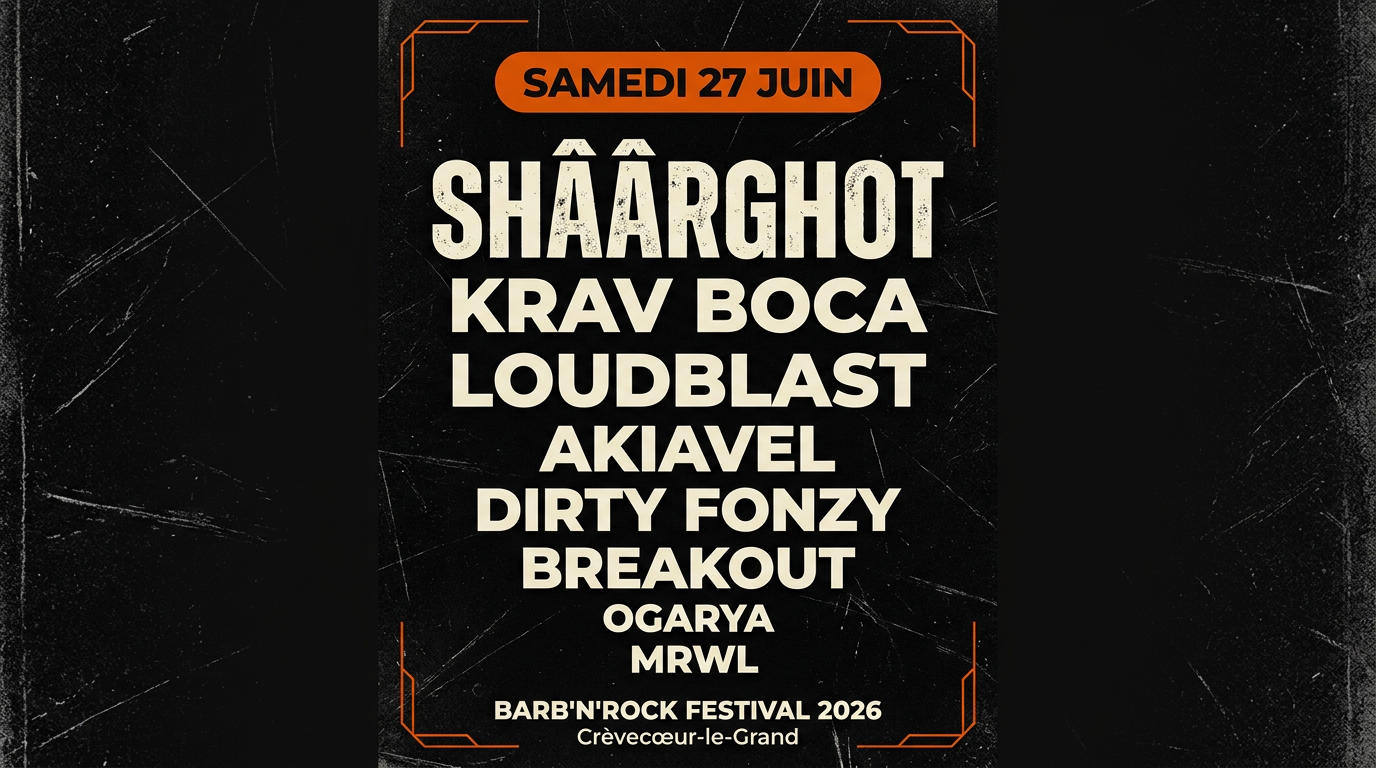
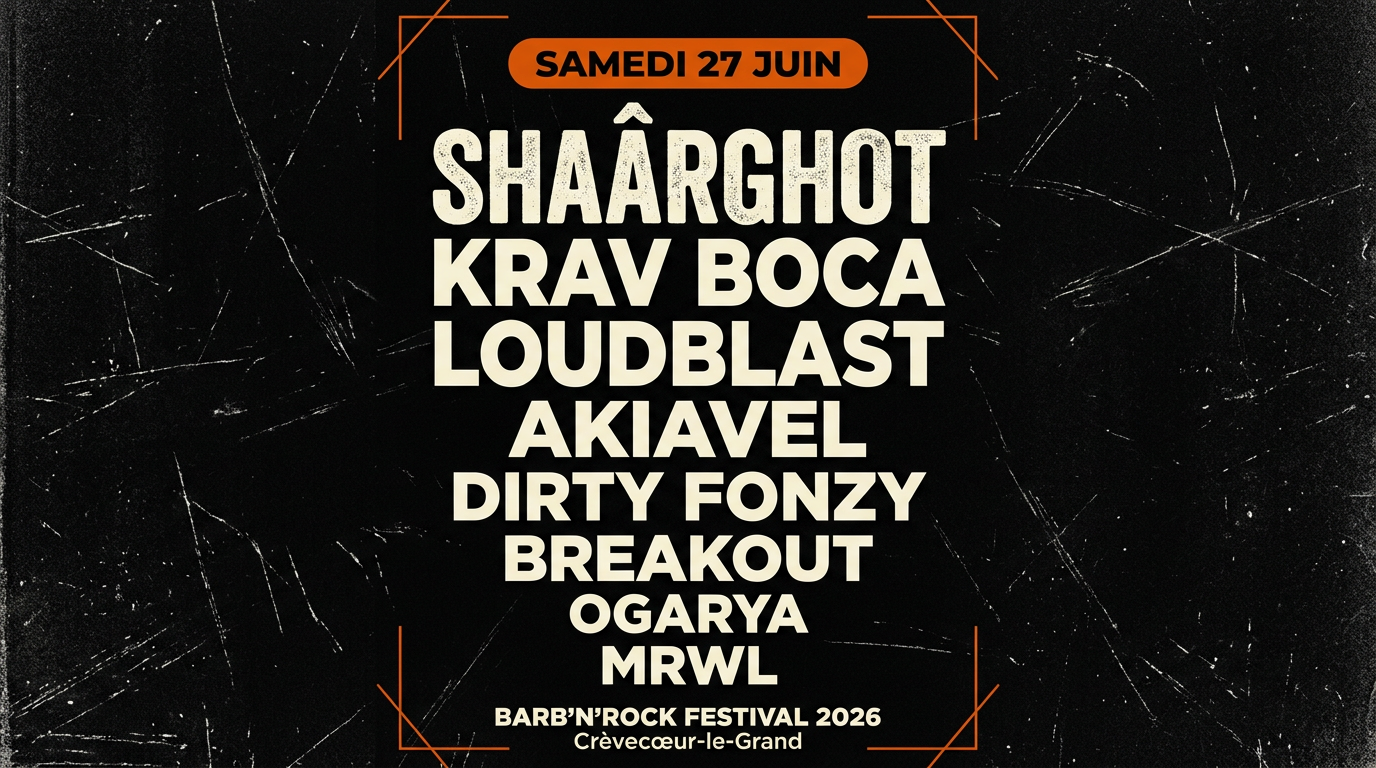
fix: zoom out artist images and fix SHAÂRGHOT spelling
Made-with: Cursor

diff --git a/app/admin/ressources/lineup/page.tsx b/app/admin/ressources/lineup/page.tsx
@@ -179,13 +179,15 @@ export default function LineupCarouselPage() {
                 className="relative overflow-hidden rounded-xl cursor-pointer shadow-2xl shrink-0"
                 style={{ width: SLIDE_WIDTH, height: SLIDE_HEIGHT, background: '#0a0c0f' }}
               >
-                {/* Band image - zoomed out */}
+                {/* Band image - zoomed out to show more */}
                 <div
-                  className="absolute bg-center"
+                  className="absolute inset-0"
                   style={{
-                    inset: '-10%',
                     backgroundImage: `url(${band.imageUrl || '/images/placeholder-stand.png'})`,
-                    backgroundSize: 'cover',
+                    backgroundSize: '85%',
+                    backgroundPosition: 'center 20%',
+                    backgroundRepeat: 'no-repeat',
+                    backgroundColor: '#0a0c0f',
                     filter: 'grayscale(20%)',
                   }}
                 />
